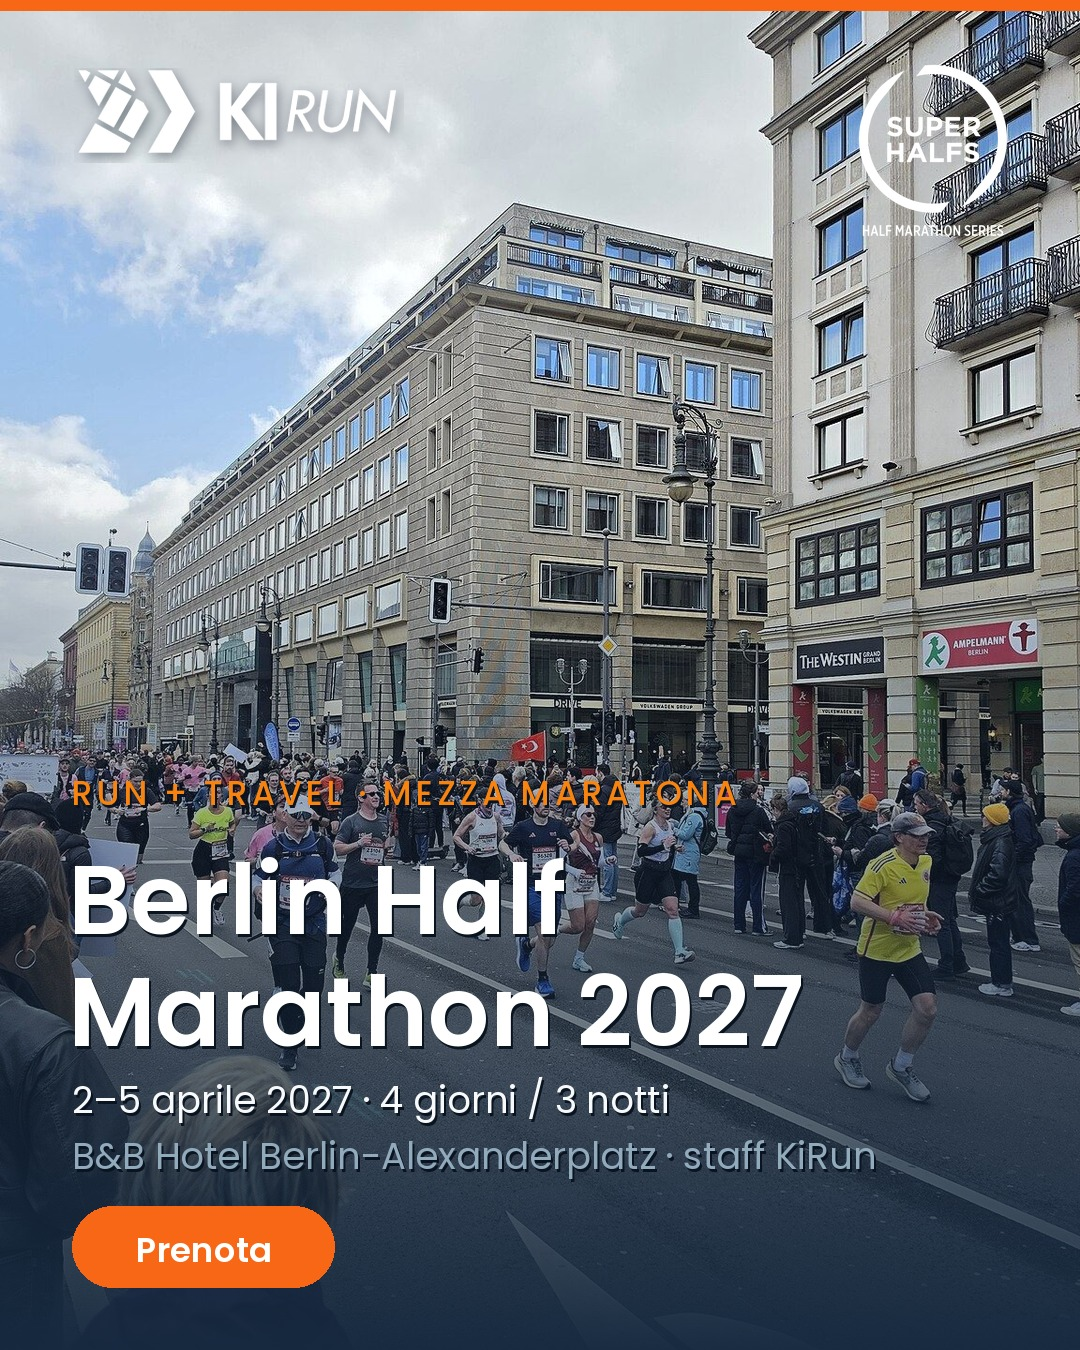
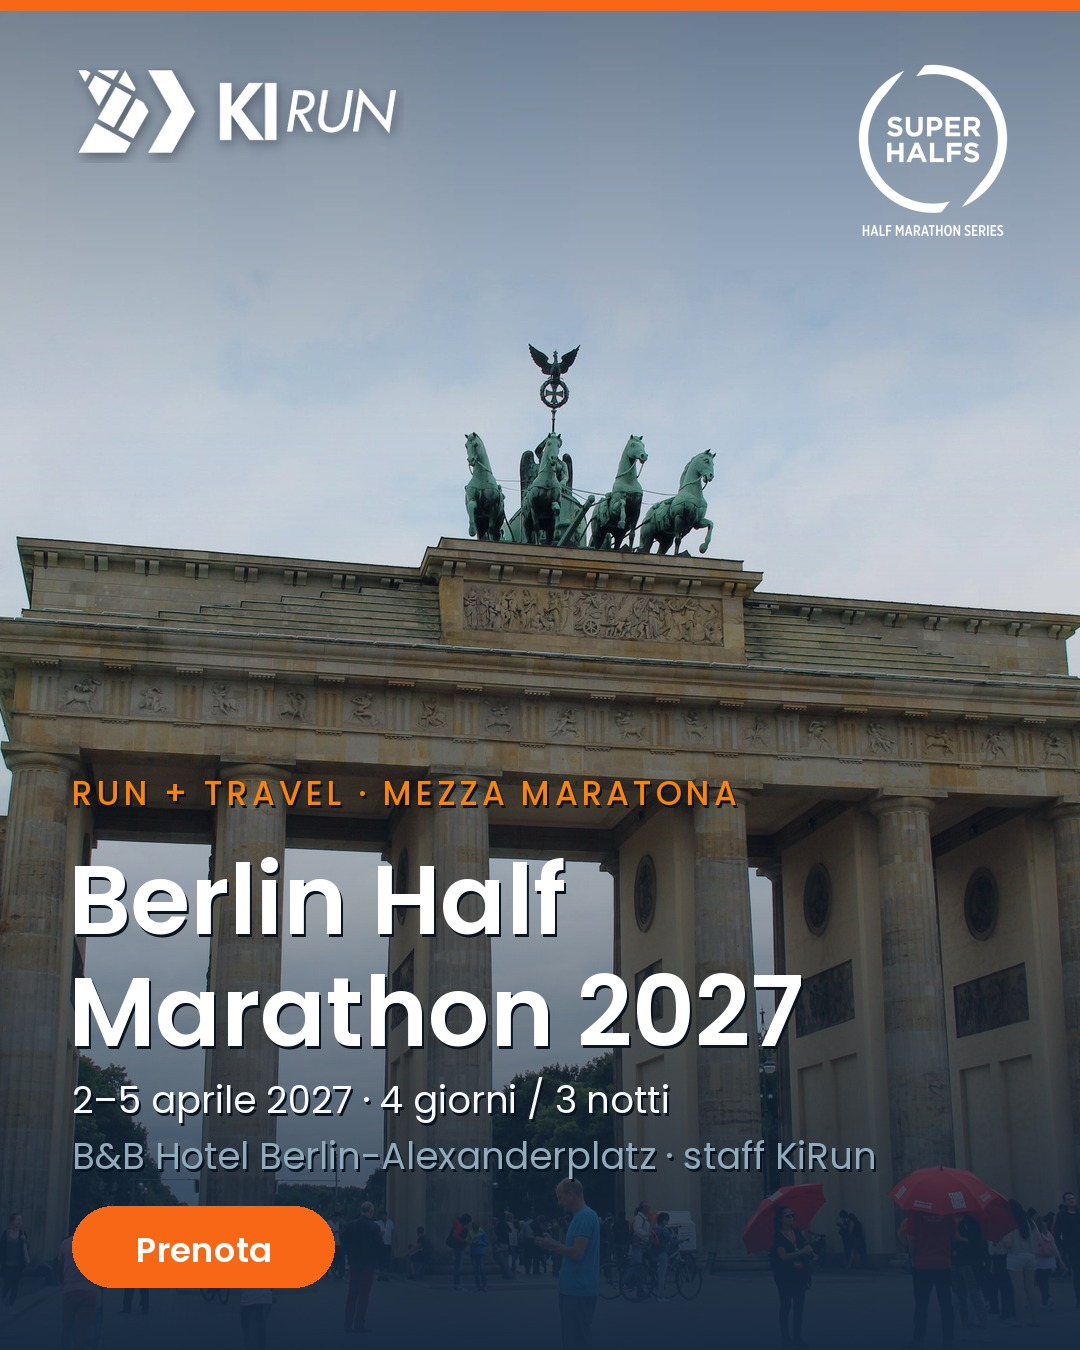
Berlin Half: approfondimenti in landing (percorso, programma, prima visita, FAQ) + foto Porta di Brandeburgo
- templates IT/EN: blocco #approfondimenti che carica /contenuti/<slug>(.en).html se esiste
- contenuti/berlin-half-marathon-2027(.en).html dalla scheda ki-run.it (FAQ senza prezzi)
- hero e grafiche social: Porta di Brandeburgo, Wikimedia Commons «Berlin Brandenburg Gate (28150532233)», Gary Todd, CC0
  (cielo allungato in alto e velo blu notte per i loghi bianchi)

diff --git a/contenuti/berlin-half-marathon-2027.html b/contenuti/berlin-half-marathon-2027.html
@@ -1,0 +1,62 @@
+<!-- Approfondimenti caricati dalla landing (templates/evento*.html). Fonte: scheda ki-run.it, fonti ufficiali gara. -->
+<section>
+  <span class="etichetta">La gara</span>
+  <h2>Perché correrla</h2>
+  <div class="testo">
+    <p>Una delle mezze più veloci d'Europa: percorso piatto (tra il punto più basso e quello più alto ci sono appena 4,3 metri) e larghissimo nel cuore di Berlino, dalla Colonna della Vittoria alla Porta di Brandeburgo, passando per il Castello di Charlottenburg, il Kurfürstendamm, Potsdamer Platz, il Gendarmenmarkt e Alexanderplatz.</p>
+    <p>Nel 2026 gli iscritti sono stati più di 40.000 da 134 paesi, con circa 40 band e punti tifo lungo il percorso. I record dicono tutto sulla sua velocità: 58:42 tra gli uomini (Eric Kiptanui, 2018) e 63:35 tra le donne (Fotyen Tesfay, 2025).</p>
+    <p>Si corre in primavera con temperature ideali ed è la tappa tedesca del circuito SuperHalfs: perfetta per cercare il personale o per scoprire la città correndo.</p>
+  </div>
+</section>
+<section>
+  <span class="etichetta">Il percorso</span>
+  <h2>Il percorso e il meteo</h2>
+  <div class="testo">
+    <p>Si parte sulla Straße des 17. Juni, tra la Colonna della Vittoria e la Porta di Brandeburgo, e si arriva subito dietro la Porta di Brandeburgo. In mezzo c'è un giro della città su viali larghi: verso ovest fino al Castello di Charlottenburg (km 3) e al Kurfürstendamm (km 6), poi di nuovo verso il centro con Potsdamer Platz (km 12), il Gendarmenmarkt (km 15) e Alexanderplatz (km 17,5), il punto più «alto», prima del finale verso la Porta. La differenza di quota massima è di 4,3 metri: praticamente una pista.</p>
+    <p>Ristori: acqua e tè ai km 5; 9,8; 14,1 e 17,5 (con banane ai km 14,1 e 17,5 e bevanda Maurten ai km 5 e 17,5), gel Maurten al km 12,3 e solo acqua al km 19,5; all'arrivo acqua, tè e frutta. Il tempo massimo è di 3 ore e 15 minuti.</p>
+    <p>Per il 2027 l'organizzatore indica la partenza dei runner dalle 10:05, a onde in base al tempo dichiarato all'iscrizione; prima partono i pattinatori (9:15) e gli atleti in carrozzina e handbike.</p>
+    <p>Ai primi di aprile la giornata parte sui 4-7 gradi e arriva a 11-14 nel pomeriggio, con possibilità di pioggia leggera e di vento tra i palazzi. Consigli del coach: vestiti a strati, tieni una maglia asciutta per il dopo gara, non farti trascinare dal gruppo nei primi 3 chilometri e conserva qualcosa per il rettilineo finale verso la Porta di Brandeburgo.</p>
+  </div>
+</section>
+<section>
+  <span class="etichetta">Come si svolge</span>
+  <h2>Il programma del weekend</h2>
+  <div class="testo">
+    <p><b>Venerdì 2 aprile:</b> arrivo a Berlino, check-in al B&amp;B Hotel Berlin-Alexanderplatz e primo contatto con l'assistenza KiRun in loco.</p>
+    <p><b>Sabato 3 aprile:</b> ritiro del pettorale all'expo nell'ex aeroporto di Tempelhof insieme al nostro staff, che ti accompagna e ti spiega la logistica; uscita di scarico di gruppo con il coach KiRun nel centro, tempo libero per la città e briefing pre-gara al desk KiRun in hotel, con indicazioni su abbigliamento, ritmo e accesso alla griglia.</p>
+    <p><b>Domenica 4 aprile:</b> colazione in hotel, a piedi o in metro verso la zona di partenza alla Porta di Brandeburgo, gara e ritrovo KiRun all'arrivo per festeggiare insieme.</p>
+    <p><b>Lunedì 5 aprile:</b> colazione e rientro, oppure una notte extra se vuoi visitare Berlino con più calma.</p>
+  </div>
+</section>
+<section>
+  <span class="etichetta">Berlino</span>
+  <h2>È la tua prima visita a Berlino? Ecco cosa ti aspetta</h2>
+  <div class="testo">
+    <p>Berlino è grande, verde e sorprendentemente facile da girare, e dall'hotel a Mitte hai il meglio a portata di passeggiata. Il primo giro classico parte dalla Porta di Brandeburgo, che domenica sarà il tuo traguardo: a due passi ci sono il Reichstag, con la cupola di vetro visitabile gratis (va prenotata online sul sito del Bundestag con qualche settimana di anticipo), e il Memoriale per gli ebrei assassinati d'Europa.</p>
+    <p>Lungo Unter den Linden arrivi all'Isola dei Musei, patrimonio UNESCO, e al Duomo; ad Alexanderplatz, accanto all'hotel, svetta la Torre della TV, con la vista più alta sulla città. Per capire la storia del Muro ci sono la East Side Gallery, oltre 1,3 km di Muro lungo la Sprea dipinti nel 1990 da 118 artisti di 21 paesi, il memoriale di Bernauer Straße e Checkpoint Charlie.</p>
+    <p>Il sabato, dopo il ritiro del pettorale a Tempelhof, fai due passi sul Tempelhofer Feld: le piste dell'ex aeroporto sono diventate un parco enorme, perfetto per sciogliere le gambe. Dopo il traguardo, recupero alla berlinese: currywurst o döner, una birra (anche analcolica) in un Biergarten se il sole è dalla tua parte, e una serata a Kreuzberg o a Prenzlauer Berg.</p>
+    <p>Due consigli pratici: la domenica i negozi sono chiusi (restano aperti bar, ristoranti, musei e i negozi delle stazioni), e per U-Bahn e S-Bahn conviene un biglietto giornaliero o da più corse; la carta si accetta quasi ovunque, ma qualche contante fa comodo nei locali più piccoli.</p>
+  </div>
+</section>
+<section>
+  <span class="etichetta">Il viaggio</span>
+  <h2>Come arrivare e muoversi</h2>
+  <div class="testo">
+    <p>Berlino si raggiunge in aereo dall'Italia, con voli diretti oppure con uno scalo a seconda dell'aeroporto di partenza: puoi prenotare il volo in autonomia e inviarci i dettagli, oppure chiederci di inserirlo nel pacchetto. L'aeroporto di Berlino Brandeburgo si trova a sud-est della città ed è collegato al centro dai treni regionali e dalla S-Bahn, con fermate comode per Alexanderplatz.</p>
+    <p>In città ti muovi con U-Bahn, S-Bahn, tram e a piedi: l'hotel è in Voltairestraße, a pochi minuti a piedi da Alexanderplatz, quindi la mattina della gara raggiungi senza stress l'area di partenza e arrivo vicino alla Porta di Brandeburgo, e dopo il traguardo torni in camera in pochi minuti di metro.</p>
+  </div>
+</section>
+<section>
+  <span class="etichetta">Le domande che ci fate</span>
+  <h2>Domande frequenti</h2>
+  <div class="condizioni">
+    <details><summary>Il pettorale è garantito?</summary><p>Sì: le iscrizioni sono aperte e il pettorale del contingente KiRun si aggiunge alla quota del pacchetto, fino a esaurimento dei posti. Il prezzo è nel listino qui sopra.</p></details>
+    <details><summary>Dove si ritira il pettorale?</summary><p>All'expo nell'ex aeroporto di Tempelhof, aperta venerdì 2 aprile dalle 9 alle 20 e sabato 3 aprile dalle 9 alle 19. Si ritira di persona, con la carta di partenza che l'organizzatore invia via email pochi giorni prima e un documento d'identità; la domenica non è più possibile. Ci andiamo insieme il sabato.</p></details>
+    <details><summary>Posso lasciare la borsa alla partenza?</summary><p>Il deposito indumenti dell'organizzatore si prenota con l'iscrizione e costa 5 €: diccelo quando prenoti. Senza deposito, all'arrivo ricevi un poncho per scaldarti.</p></details>
+    <details><summary>Posso venire con un accompagnatore che non corre?</summary><p>Certo, con la quota accompagnatore senza pettorale: chiedici la quota.</p></details>
+    <details><summary>Se parto da solo devo pagare la camera singola?</summary><p>Solo se la desideri, con il supplemento indicato nel listino; altrimenti ti abbiniamo a un altro runner.</p></details>
+    <details><summary>Cosa succede se mi infortuno prima della partenza?</summary><p>La polizza base spese mediche è inclusa; la polizza annullamento per infortunio e malattia fino al giorno della partenza si può aggiungere (la trovi nel listino).</p></details>
+    <details><summary>Quando si paga?</summary><p>Al momento della prenotazione ti indichiamo acconto e scadenza del saldo.</p></details>
+  </div>
+  <p class="link-scheda"><a href="https://ki-run.it/marathon/generali-berlin-half-marathon/?utm_source=go.ki-run.it&amp;utm_medium=landing&amp;utm_campaign=berlin-half-marathon-2027">Tutti i dettagli della gara su ki-run.it →</a></p>
+</section>

diff --git a/contenuti/berlin-half-marathon-2027.en.html b/contenuti/berlin-half-marathon-2027.en.html
@@ -1,0 +1,62 @@
+<!-- Approfondimenti caricati dalla landing (templates/evento*.html). Fonte: scheda ki-run.it, fonti ufficiali gara. -->
+<section>
+  <span class="etichetta">The race</span>
+  <h2>Why run it</h2>
+  <div class="testo">
+    <p>One of the fastest half marathons in Europe: a flat course (just 4.3 metres between its lowest and highest points) on very wide roads in the heart of Berlin, from the Victory Column to the Brandenburg Gate, past Charlottenburg Palace, the Kurfürstendamm, Potsdamer Platz, the Gendarmenmarkt and Alexanderplatz.</p>
+    <p>In 2026 more than 40,000 runners from 134 countries signed up, with around 40 bands and cheering points along the route. The course records say it all: 58:42 for men (Eric Kiptanui, 2018) and 63:35 for women (Fotyen Tesfay, 2025).</p>
+    <p>It is run in spring with ideal temperatures and it is the German stage of the SuperHalfs circuit: perfect for chasing a personal best or for discovering the city on the run.</p>
+  </div>
+</section>
+<section>
+  <span class="etichetta">The course</span>
+  <h2>The course and the weather</h2>
+  <div class="testo">
+    <p>The start is on Straße des 17. Juni, between the Victory Column and the Brandenburg Gate, and the finish is just behind the Brandenburg Gate. In between is a loop of the city on wide boulevards: west to Charlottenburg Palace (km 3) and the Kurfürstendamm (km 6), then back towards the centre via Potsdamer Platz (km 12), the Gendarmenmarkt (km 15) and Alexanderplatz (km 17.5), the “highest” point, before the run-in to the Gate. The maximum difference in height is 4.3 metres: practically a track.</p>
+    <p>Refreshments: water and tea at km 5, 9.8, 14.1 and 17.5 (with bananas at km 14.1 and 17.5 and Maurten drink at km 5 and 17.5), Maurten gels at km 12.3 and water only at km 19.5; at the finish, water, tea and fruit. The time limit is 3 hours 15 minutes.</p>
+    <p>For 2027 the organiser lists the runners' start from 10:05, in waves based on the time given at registration; inline skaters start first (9:15), followed by wheelchair and handbike athletes.</p>
+    <p>In early April the day starts at around 4-7 degrees and reaches 11-14 in the afternoon, with a chance of light rain and wind between the buildings. Coach's tips: dress in layers, keep a dry top for after the race, don't get carried away by the pack in the first 3 kilometres and save something for the final straight towards the Brandenburg Gate.</p>
+  </div>
+</section>
+<section>
+  <span class="etichetta">How it works</span>
+  <h2>The weekend programme</h2>
+  <div class="testo">
+    <p><b>Friday 2 April:</b> arrival in Berlin, check-in at the B&amp;B Hotel Berlin-Alexanderplatz and first contact with KiRun assistance on site.</p>
+    <p><b>Saturday 3 April:</b> bib collection at the expo in the former Tempelhof airport with our staff, who go with you and explain the logistics; group shakeout run with the KiRun coach in the centre, free time in the city and the pre-race briefing at the KiRun desk in the hotel, covering kit, pacing and access to the start pens.</p>
+    <p><b>Sunday 4 April:</b> breakfast at the hotel, walk or metro to the start area at the Brandenburg Gate, the race and the KiRun meeting point at the finish to celebrate together.</p>
+    <p><b>Monday 5 April:</b> breakfast and home, or an extra night if you want to visit Berlin at a slower pace.</p>
+  </div>
+</section>
+<section>
+  <span class="etichetta">Berlin</span>
+  <h2>First time in Berlin? Here&#x27;s what to expect</h2>
+  <div class="testo">
+    <p>Berlin is big, green and surprisingly easy to get around, and from the hotel in Mitte the best of it is within walking distance. The classic first walk starts at the Brandenburg Gate, your finish line on Sunday: close by are the Reichstag, whose glass dome you can visit for free (book online on the Bundestag website a few weeks ahead), and the Memorial to the Murdered Jews of Europe.</p>
+    <p>Along Unter den Linden you reach Museum Island, a UNESCO World Heritage Site, and the Cathedral; at Alexanderplatz, next to the hotel, the TV Tower gives you the highest view over the city. To understand the story of the Wall there is the East Side Gallery, more than 1.3 km of Wall along the Spree painted in 1990 by 118 artists from 21 countries, the Bernauer Straße memorial and Checkpoint Charlie.</p>
+    <p>On Saturday, after collecting your bib at Tempelhof, take a walk on the Tempelhofer Feld: the runways of the former airport are now a huge park, perfect for loosening your legs. After the finish, recover the Berlin way: currywurst or döner, a beer (alcohol-free works too) in a beer garden if the sun is out, and an evening in Kreuzberg or Prenzlauer Berg.</p>
+    <p>Two practical tips: shops are closed on Sundays (bars, restaurants, museums and station shops stay open), and a day ticket or multi-trip ticket is the easiest option for the U-Bahn and S-Bahn; cards are accepted almost everywhere, but some cash is handy in smaller places.</p>
+  </div>
+</section>
+<section>
+  <span class="etichetta">The trip</span>
+  <h2>Getting there and around</h2>
+  <div class="testo">
+    <p>Berlin can be reached by plane from Italy, direct or with one stop depending on your departure airport: you can book the flight yourself and send us the details, or ask us to add it to the package. Berlin Brandenburg airport is south-east of the city and is connected to the centre by regional trains and the S-Bahn, with convenient stops for Alexanderplatz.</p>
+    <p>In the city you get around by U-Bahn, S-Bahn, tram and on foot: the hotel is on Voltairestraße, a few minutes' walk from Alexanderplatz, so on race morning you reach the start and finish area near the Brandenburg Gate without stress, and after the finish you are back in your room in a few minutes by metro.</p>
+  </div>
+</section>
+<section>
+  <span class="etichetta">Your questions</span>
+  <h2>FAQ</h2>
+  <div class="condizioni">
+    <details><summary>Is the bib guaranteed?</summary><p>Yes: registration is open and the bib from the KiRun allocation is added to the package price, while places last. The price is in the price list above.</p></details>
+    <details><summary>Where do I collect my bib?</summary><p>At the expo in the former Tempelhof airport, open on Friday 2 April from 9 am to 8 pm and Saturday 3 April from 9 am to 7 pm. You collect it in person, with the start card the organiser emails a few days before and a photo ID; it cannot be collected on Sunday. We go together on Saturday.</p></details>
+    <details><summary>Can I leave a bag at the start?</summary><p>The organiser's clothing bag is booked with your registration and costs 5 €: let us know when you book. Without it, you get a poncho at the finish to keep warm.</p></details>
+    <details><summary>Can I bring a non-running companion?</summary><p>Of course, with the companion rate without a bib: just ask us for the quote.</p></details>
+    <details><summary>If I travel alone, do I have to pay for a single room?</summary><p>Only if you want one, with the supplement shown in the price list; otherwise we pair you with another runner.</p></details>
+    <details><summary>What if I get injured before departure?</summary><p>Basic medical insurance is included; cancellation cover for injury and illness up to the day of departure can be added (you'll find it in the price list).</p></details>
+    <details><summary>When do I pay?</summary><p>When you book we tell you the deposit and the balance deadline.</p></details>
+  </div>
+  <p class="link-scheda"><a href="https://ki-run.it/en/marathon/generali-berlin-half-marathon/?utm_source=go.ki-run.it&amp;utm_medium=landing&amp;utm_campaign=berlin-half-marathon-2027">All the race details on ki-run.it →</a></p>
+</section>

diff --git a/templates/evento-en.html b/templates/evento-en.html
@@ -109,6 +109,8 @@
     </section>
     <!--ENDIF:programma-->
 
+    <div id="approfondimenti" data-src="/contenuti/{{slug}}.en.html" hidden></div>
+
     <!--IF:condizioni-->
     <section>
       <span class="etichetta">The fine print, written clearly</span>
@@ -165,6 +167,20 @@
     });
     a.setAttribute('href', url.toString());
   });
+})();
+</script>
+
+<script>
+/* Approfondimenti per gara (percorso, programma, guida alla città, FAQ): file statico
+   /contenuti/<slug>.html nel repo, scritto a mano dalla scheda ki-run.it. Se il file non c'è
+   (404) la pagina resta com'è. Lo slug arriva dal segnaposto già usato per l'immagine hero. */
+(function () {
+  var box = document.getElementById('approfondimenti');
+  if (!box || !window.fetch) { return; }
+  fetch(box.getAttribute('data-src'), { cache: 'no-cache' })
+    .then(function (r) { return r.ok ? r.text() : ''; })
+    .then(function (h) { if (h && h.indexOf('<section') !== -1) { box.insertAdjacentHTML('afterend', h); } box.remove(); })
+    .catch(function () {});
 })();
 </script>
 

diff --git a/templates/evento.html b/templates/evento.html
@@ -109,6 +109,8 @@
     </section>
     <!--ENDIF:programma-->
 
+    <div id="approfondimenti" data-src="/contenuti/{{slug}}.html" hidden></div>
+
     <!--IF:condizioni-->
     <section>
       <span class="etichetta">Le cose scritte chiare</span>
@@ -165,6 +167,20 @@
     });
     a.setAttribute('href', url.toString());
   });
+})();
+</script>
+
+<script>
+/* Approfondimenti per gara (percorso, programma, guida alla città, FAQ): file statico
+   /contenuti/<slug>.html nel repo, scritto a mano dalla scheda ki-run.it. Se il file non c'è
+   (404) la pagina resta com'è. Lo slug arriva dal segnaposto già usato per l'immagine hero. */
+(function () {
+  var box = document.getElementById('approfondimenti');
+  if (!box || !window.fetch) { return; }
+  fetch(box.getAttribute('data-src'), { cache: 'no-cache' })
+    .then(function (r) { return r.ok ? r.text() : ''; })
+    .then(function (h) { if (h && h.indexOf('<section') !== -1) { box.insertAdjacentHTML('afterend', h); } box.remove(); })
+    .catch(function () {});
 })();
 </script>
 

diff --git a/assets/kirun.css b/assets/kirun.css
@@ -452,3 +452,8 @@ footer .credit a { color: var(--azzurro); }
   .guida .testo a[href^="http"]::after { content: " (" attr(href) ")"; font-size: 0.75rem; color: var(--secondario); }
   .guida section { break-inside: avoid; }
 }
+
+/* link alla scheda ki-run.it in coda agli approfondimenti */
+.link-scheda { margin: 1.25rem 0 0; }
+.link-scheda a { color: var(--arancio); font-weight: 500; text-decoration: none; }
+.link-scheda a:hover { text-decoration: underline; }
